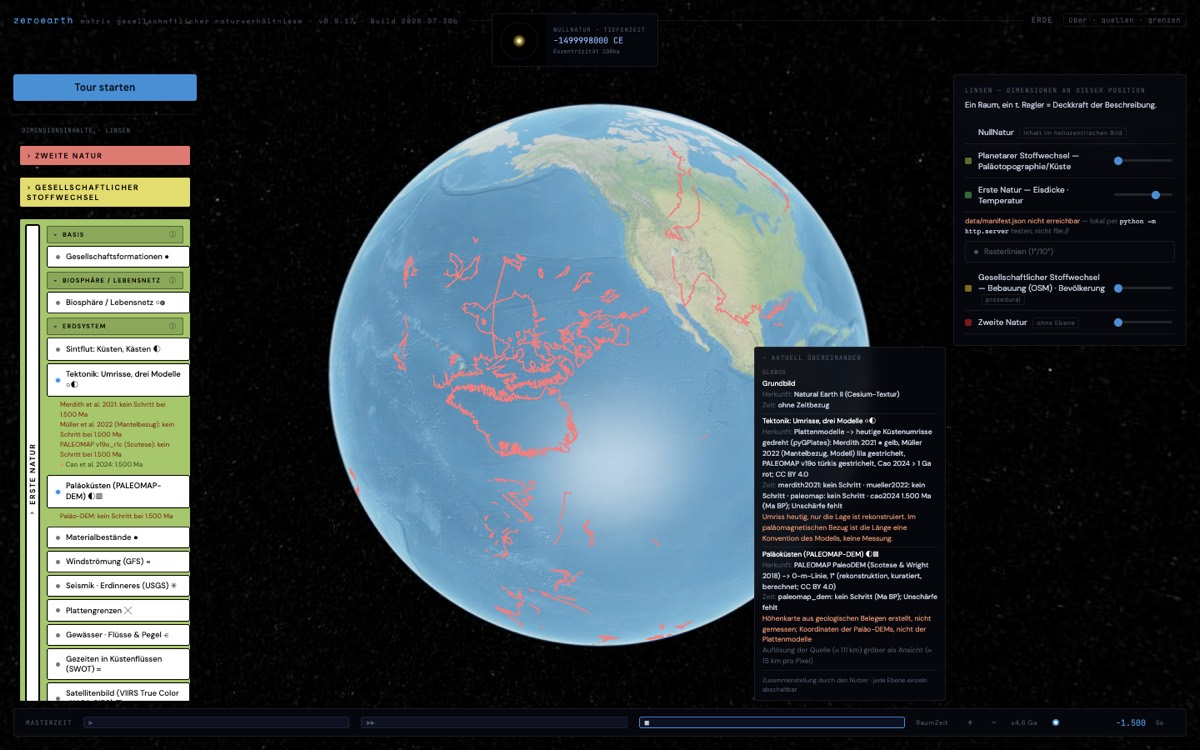
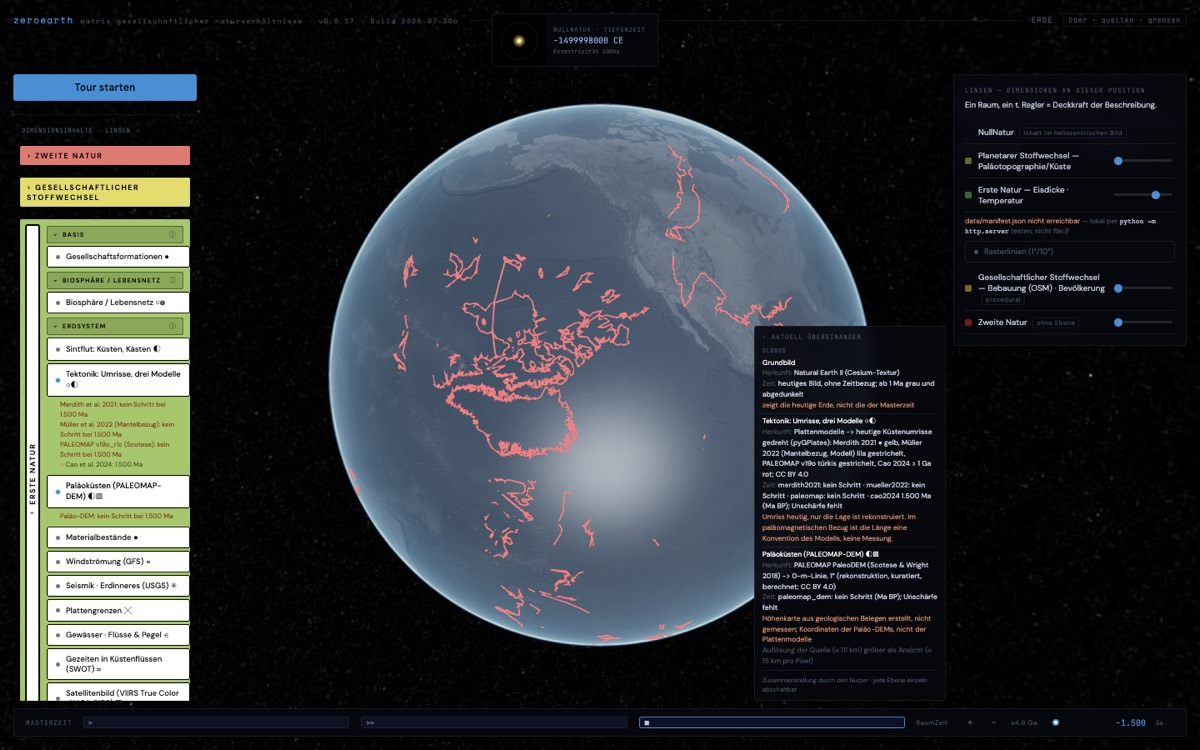
Grundbild in der Tiefe: ab 1 Ma grau und abgedunkelt
Natural Earth, Satellitenbild und Nachtlichter zeigen die heutige Erde. Ab
1 Ma vor heute liegen Platten und Küsten sichtbar anders; die Bilder werden
grau und dunkel, die Legende sagt es. Nichts wird abgeschaltet.

Changed region(s): [[0.2775, 0.1227, 0.7708, 0.8587]]

diff --git a/index.html b/index.html
@@ -2279,7 +2279,11 @@ class DM {
   layers(ids) {
     const L=this.v.imageryLayers;
     while(L.length>0) L.remove(L.get(0));
-    ids.forEach(id=>{const c=LR[id];if(c?.status==='active'&&c.p){try{L.add(Cesium.ImageryLayer.fromProviderAsync(Promise.resolve(c.p())));}catch(e){}}});
+    ids.forEach(id=>{const c=LR[id];if(c?.status==='active'&&c.p){try{
+      L.add(Cesium.ImageryLayer.fromProviderAsync(Promise.resolve(c.p())));
+      if (id === 'natural_earth') ze.grundbild = L.get(L.length - 1);
+    }catch(e){}}});
+    ze._grundbildTiefe?.();
   }
 
   _highlightSL(group, sl) {
@@ -4174,6 +4178,7 @@ class ZeroEarth {
       this.unterbauLayer.update(Tideline.t);
       this.seismikLayer.update(Tideline.t);
       this.sintflutLayer.update(Tideline.t);
+      this._grundbildTiefe();
       this.tektonikLayer.update(Tideline.t);
       this.palaeokuesteLayer.update(Tideline.t);
       this._renderMoonPanel();
@@ -4852,7 +4857,9 @@ class ZeroEarth {
     } else {
       const globus = this.ansicht === 'globus' || this.miniGlobus;
       const raster = [];   // was nur der Globus zeigt
-      raster.push(['Grundbild', L.grundbild]);
+      raster.push(['Grundbild', this._tief
+        ? { ...L.grundbild, z: `heutiges Bild, ohne Zeitbezug; ab ${GRUNDBILD_TIEFE_MA} Ma grau und abgedunkelt`, warn: 'zeigt die heutige Erde, nicht die der Masterzeit' }
+        : L.grundbild]);
       if (this.satbild) raster.push([name('satbild'), { ...L.satbild, z: `${this.satbildTag} (fest)` }]);
       if (this.nachtlicht) raster.push([name('nachtlicht'), { ...L.nachtlicht, z: `${this.nachtlichtTag} (fest)` }]);
       for (const [linse, keys] of Object.entries(LENSES)) {
@@ -4956,6 +4963,7 @@ class ZeroEarth {
       if (st) st.innerHTML = `<span class="ds-err">GIBS nicht erreichbar</span> (${e.message ?? 'Kacheln fehlen'})`;
     });
     this.satbild = this.cesiumV.imageryLayers.addImageryProvider(provider);
+    this._grundbildTiefe();
     this.satbildTag = tag;
     el?.classList.add('on');
     this.ebenenGeaendert();
@@ -4991,6 +4999,7 @@ class ZeroEarth {
       if (st) st.innerHTML = `<span class="ds-err">GIBS nicht erreichbar</span> (${e.message ?? 'Kacheln fehlen'})`;
     });
     this.nachtlicht = this.cesiumV.imageryLayers.addImageryProvider(provider);
+    this._grundbildTiefe();
     this.nachtlicht.dayAlpha = 0;      // am Tag unsichtbar
     this.nachtlicht.nightAlpha = 1;    // auf der Nachtseite voll
     this.nachtlichtTag = tag;
@@ -5242,6 +5251,22 @@ class ZeroEarth {
   }
 
   /* ── Matrixschnitt-Layer neu aufbauen (alle auf dasselbe t) ───── */
+  /* Grundbild in der Tiefe: Natural Earth, Satellitenbild und Nachtlichter
+     zeigen die heutige Erde. Ab GRUNDBILD_TIEFE_MA vor heute liegen Platten
+     und Küsten sichtbar anders (Platten wandern rund 0,5° je Ma, mehr als die
+     0,25° der Umrisse); dann werden diese Bilder grau und dunkel, damit sie
+     nicht als Bild der Zeit gelesen werden. Abgeschaltet wird nichts: Sie
+     bleiben Orientierung im heutigen Gradnetz und stehen so in der Legende. */
+  _grundbildTiefe() {
+    const tief = tektonikMa(Tideline.t) >= GRUNDBILD_TIEFE_MA;
+    for (const lay of [this.grundbild, this.satbild, this.nachtlicht]) {
+      if (!lay) continue;
+      lay.saturation = tief ? 0 : 1;
+      lay.brightness = tief ? 0.35 : 1;
+    }
+    if (tief !== this._tief) { this._tief = tief; this.zeichneLegende?.(); }
+  }
+
   _refreshMatrixLayers() {
     const t = Tideline.t;
     // S4-Konfiguration: Linse → Layer-Instanzen
@@ -5448,6 +5473,8 @@ const TEKTONIK_FARBE = { merdith2021: '#f2b45a', mueller2022: '#c79cf2', paleoma
 const TEKTONIK_STRICH = { merdith2021: null, mueller2022: 14, paleomap: 6, cao2024: null };
 /** Ma vor heute aus der internen Masterzeit t (Jahre seit J2000). Nur zur Wahl des Schritts. */
 const tektonikMa = t => Math.max(0, -t / 1e6);
+/** Ab hier (Ma vor heute) wird das heutige Grundbild grau und dunkel; Begründung bei _grundbildTiefe. */
+const GRUNDBILD_TIEFE_MA = 1;
 
 class TektonikLayer {
   constructor(v, art) { this.v = v; this.art = art; this.on = false; this.daten = null; this._schluessel = undefined; this.stand = []; }

diff --git a/kern/BERICHT-tektonik.md b/kern/BERICHT-tektonik.md
@@ -165,7 +165,11 @@ Gebaut nach den Entscheidungen: Variante B, Ideale Merdith 2021, Müller 2022 un
 - **Schnittkanten:** Die Küstenpolygone der Modelle sind an Plattengrenzen zerschnitten; ihre Kanten liefen sonst quer über die Kontinente. Behalten werden nur Kanten, die auf dem Rand der heutigen Landmasse liegen (Vereinigung aller Polygone, Band 0,02°).
 - **PALEOMAP ohne Küsten:** Das PALEOMAP-Plattenmodell bringt keine Küsten mit. Ich habe die Merdith-Küsten an den PALEOMAP-Plattenpolygonen geteilt; das ist eine Setzung (`tektonik/auswahl/kuesten_paleomap`).
 - **Herkunft der Umrisse:** Der Eintrag `tektonik/umrisse` trägt alle beteiligten Arten (rekonstruktion, modell, berechnet), weil Müller 2022 Modell ist (Regel 6). Jede Lage je Ideal trägt ihre eigenen Arten.
-- **Grundbild in der Tiefe:** Es bleibt das heutige Natural-Earth-Bild unter den gedrehten Umrissen. Das ist in der Legende als „ohne Zeitbezug“ ausgewiesen, liest sich in der Tiefe aber leicht falsch. Vorschlag: Grundbild in der Tiefe abdunkeln oder abschalten.
+- **Grundbild in der Tiefe:** Das heutige Natural-Earth-Bild lag unter den gedrehten Umrissen und las sich leicht als Bild der Zeit.
+  - Gebaut: Ab 1 Ma vor heute werden Grundbild, Satellitenbild und Nachtlichter grau und auf 35 % Helligkeit gedunkelt; die Legende sagt dann „zeigt die heutige Erde, nicht die der Masterzeit“.
+  - Warum 1 Ma: Platten wandern rund 0,5° je Ma, mehr als die 0,25° der Umrisse.
+  - Abgeschaltet wird nichts: Das Bild bleibt Orientierung im heutigen Gradnetz.
+  - Unter 1 Ma, also auch bei der Sintflut, bleibt es farbig; dort steht weiter „ohne Zeitbezug“.
 
 ![0 Ma](bericht-tektonik/ebenen-0ma.jpg)
 ![200 Ma: drei Modelle nebeneinander, dazu Paläoküste](bericht-tektonik/ebenen-200ma.jpg)
@@ -214,7 +218,7 @@ Ziel ist eine Reihe aus mehreren Quellen, jede in ihrem Zeitraum: Nähte bleiben
 
 Punkte 1 bis 4 aus dem ersten Bericht sind entschieden und gebaut (siehe Stand des Baus). Neu offen:
 
-1. Grundbild in der Tiefe abdunkeln oder abschalten?
+1. Grundbild in der Tiefe: gebaut als Abdunkeln ab 1 Ma (siehe oben). Offen, ob es stattdessen ganz abgeschaltet werden soll.
 2. Kocsis & Scotese als dritte Küstenebene neben der DEM-0-m-Linie?
 3. Lücke 80 ka bis 5 Ma: PRISM4 als einzelne Zeitscheibe prüfen?
 4. GEBCO als „heute“-Ebene: welcher Ausschnitt und welche Vergröberung?
